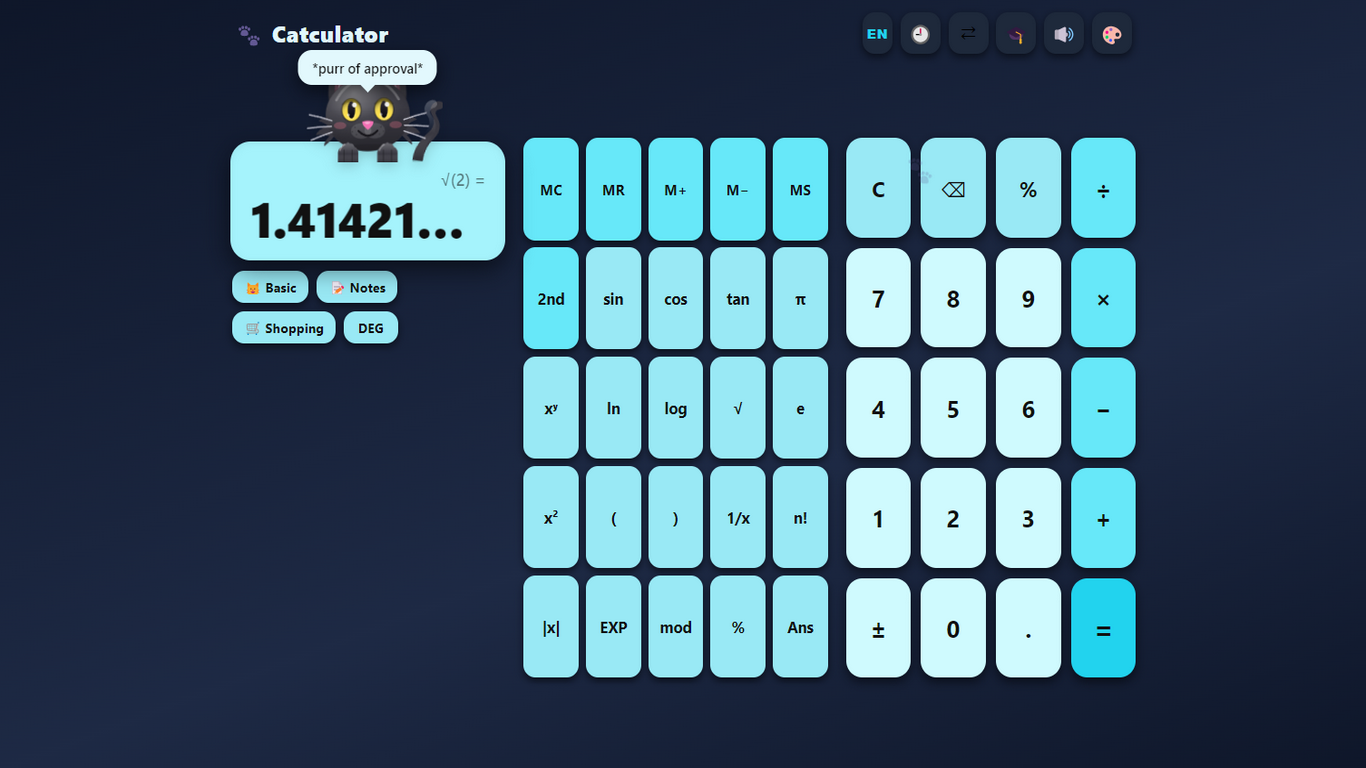
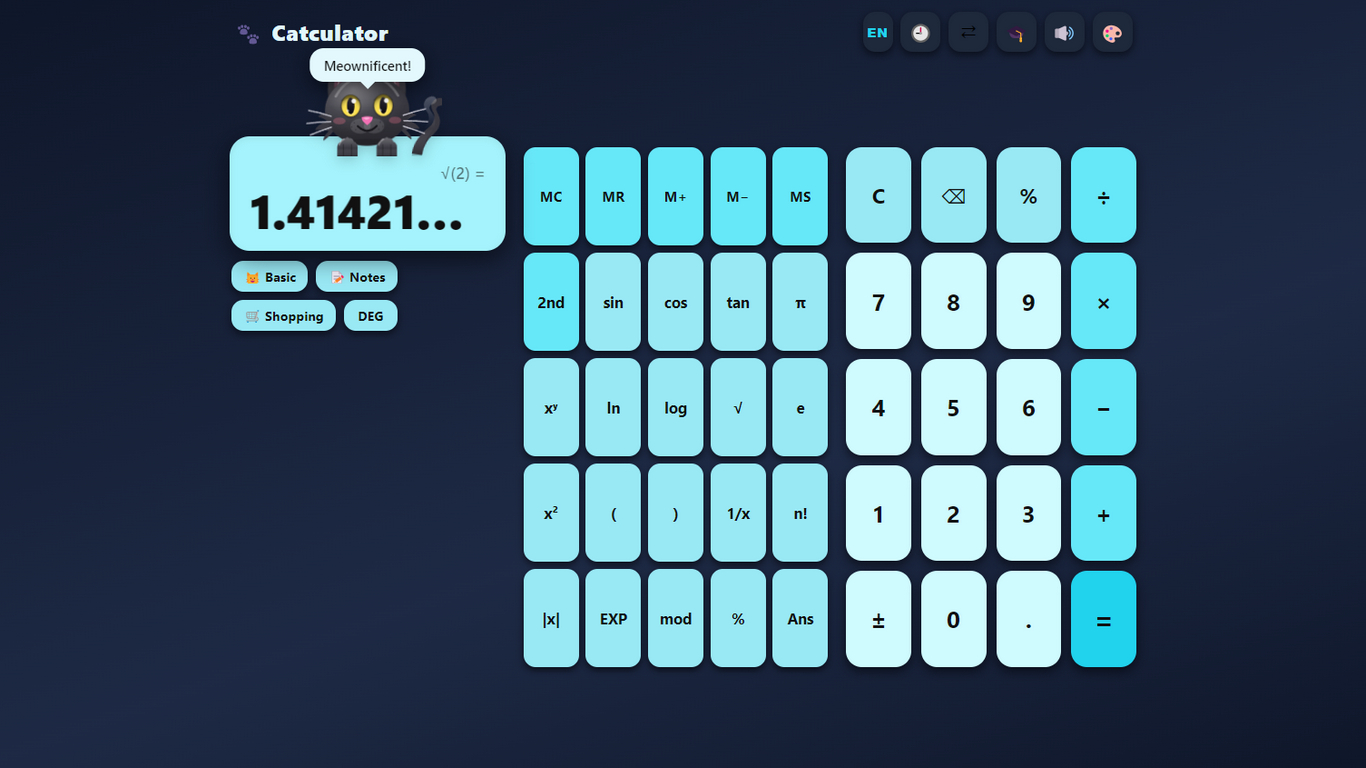
Dos tomas mas con la ventana en su tamano normal
Las ocho tomas de la ficha se hacen a 1366x768, que es el minimo de la
tienda, y a ese ancho la app entra en horizontal: los paneles se abren
sobre el teclado y el tercio de la izquierda queda vacio. Es real, pasa
solo maximizada, y se queda asi por ahora.

Lo que faltaba era ensenar la ventana como abre de verdad. Estas dos se
capturan a 440x820 —el tamano de main.js— y se montan centradas sobre un
lienzo de 1366x768 con sombra, como una ventana sobre un escritorio.
Estirar una ventana estrecha hasta 1366 la habria deformado.

La 10 ensena ademas el bloc de notas, que no salia en ninguna toma.

Dos cosas que solo se ven mirando la imagen, no midiendo:
- el globo del gato salia partido por detras del panel de notas
- el corrector subrayaba en rojo "Cat food" y "Litter" en la version
  inglesa, que en una captura de tienda parecen faltas

El HTML del montaje se escribe en la carpeta temporal del sistema y no
en el proyecto: ahi dentro el Acceso Controlado a Carpetas lo tumba.

diff --git a/microsoft-store/build-capturas.js b/microsoft-store/build-capturas.js
@@ -12,6 +12,31 @@ const IDIOMA_CAP = process.argv.includes('en') ? 'en' : 'es';
 const OUT = path.join(__dirname, IDIOMA_CAP === 'es' ? 'capturas' : 'capturas-' + IDIOMA_CAP);
 const PORT = 8146;
 const W = 1366, H = 768;
+/* Tamaño con el que abre la ventana de verdad (el de main.js). Las tomas de
+   "ventana normal" se capturan así y luego se montan sobre el lienzo de la
+   tienda: estirar una ventana estrecha hasta 1366 la deformaría. */
+const W_VENTANA = 440, H_VENTANA = 820;
+const TMP = path.join(require('os').tmpdir(), 'catculator-marco');
+
+/* El montaje. La ventana va centrada, con esquinas redondeadas y sombra, para
+   que se lea como una ventana sobre un escritorio y no como una captura
+   estirada. El alto manda: 820 no cabe en 768, así que se escala a 704 y el
+   ancho lo sigue solo. */
+function marcoHTML(fondo) {
+  return `<!doctype html><meta charset="utf-8"><style>
+  html, body { margin: 0; height: 100%; }
+  body {
+    display: flex; align-items: center; justify-content: center;
+    background: ${fondo};
+  }
+  img {
+    height: 704px; width: auto; display: block;
+    border-radius: 18px;
+    box-shadow: 0 24px 60px rgba(15, 30, 50, 0.28),
+                0 4px 14px rgba(15, 30, 50, 0.16);
+  }
+  </style><img src="ventana.png">`;
+}
 
 const log = (...a) => console.log(...a);
 
@@ -116,6 +141,45 @@ const TOMAS = [
       for (const k of ['1', '0', '0']) { $(`.key[data-k="${k}"]`).click(); await wait(50); }
       $('#btn-conv').click(); await wait(500);
     }
+  },
+  {
+    /* La app tal y como abre: ventana estrecha, una columna. Aquí los paneles
+       caen donde tienen que caer, que es lo que no se ve en las tomas de
+       ventana maximizada. */
+    nombre: '9-ventana-normal', tema: 'cian', pelaje: 'naranja', atuendo: 'ninguno', modo: 'basic',
+    ventana: 'normal', fondo: 'linear-gradient(135deg, #dfe9f3 0%, #c6d6e6 100%)',
+    guion: async ($, wait) => {
+      for (const k of ['1', '2', '5', '0', '*', '3']) { $(`.key[data-k="${k}"]`).click(); await wait(50); }
+      $('[data-action="equals"]').click(); await wait(400);
+    }
+  },
+  {
+    /* El bloc de notas, que no salía en ninguna toma de la ficha. Y de paso
+       otra de ventana normal, que es lo que se pidió. */
+    nombre: '10-ventana-notas', tema: 'lavanda', pelaje: 'gris', atuendo: 'ninguno', modo: 'basic',
+    ventana: 'normal', fondo: 'linear-gradient(135deg, #e8e3f5 0%, #cdc4e8 100%)',
+    guion: async ($, wait) => {
+      for (const k of ['2', '4', '0', '0']) { $(`.key[data-k="${k}"]`).click(); await wait(50); }
+      $('[data-action="equals"]').click(); await wait(250);
+      $('#btn-notes').click(); await wait(500);
+      const ta = $('#notes-text');
+      if (ta) {
+        /* El corrector subraya en rojo "Cat food" y "Litter" en la version
+           inglesa. En la app esta bien que corrija; en una captura de tienda
+           parecen faltas de ortografia. */
+        ta.spellcheck = false;
+        ta.value = document.documentElement.lang === 'en'
+          ? 'Shopping\n- Cat food  2400\n- Litter     1800'
+          : 'Compras\n- Comida gato  2400\n- Arena        1800';
+        ta.dispatchEvent(new Event('input', { bubbles: true }));
+      }
+      /* El globo del gato sale al abrir el bloc y el panel lo parte por la
+         mitad: media frase asomando por detras se ve a descuido. Aqui no
+         aporta nada, asi que fuera. */
+      const globo = $('.speech');
+      if (globo) globo.classList.add('hidden');
+      await wait(300);
+    }
   }
 ];
 
@@ -140,6 +204,10 @@ async function run() {
   await win.webContents.session.clearStorageData();
 
   for (const t of TOMAS) {
+    // Antes de cargar: las media queries dependen del tamaño, no al revés
+    const normal = t.ventana === 'normal';
+    win.setContentSize(normal ? W_VENTANA : W, normal ? H_VENTANA : H);
+    await new Promise(r => setTimeout(r, 200));
     await win.loadURL(`http://localhost:${PORT}/`);
     await win.webContents.executeJavaScript(`
       localStorage.setItem('catculator-theme', '${t.tema}');
@@ -183,6 +251,23 @@ async function run() {
     await new Promise(r => setTimeout(r, 300));
 
     let img = await win.webContents.capturePage();
+
+    /* Montaje de las tomas de ventana normal. El HTML del marco vive en la
+       carpeta temporal del sistema y no en el proyecto: dentro del proyecto el
+       Acceso Controlado a Carpetas de Defender tumba las escrituras. */
+    if (normal) {
+      fs.mkdirSync(TMP, { recursive: true });
+      fs.writeFileSync(path.join(TMP, 'ventana.png'), img.toPNG());
+      fs.writeFileSync(path.join(TMP, 'marco.html'), marcoHTML(t.fondo));
+      win.setContentSize(W, H);
+      await new Promise(r => setTimeout(r, 200));
+      await win.loadFile(path.join(TMP, 'marco.html'));
+      await new Promise(r => setTimeout(r, 700));
+      win.webContents.invalidate();
+      await new Promise(r => setTimeout(r, 300));
+      img = await win.webContents.capturePage();
+    }
+
     const s = img.getSize();
     if (s.width !== W || s.height !== H) img = img.resize({ width: W, height: H, quality: 'best' });
     const dest = path.join(OUT, t.nombre + '.png');
